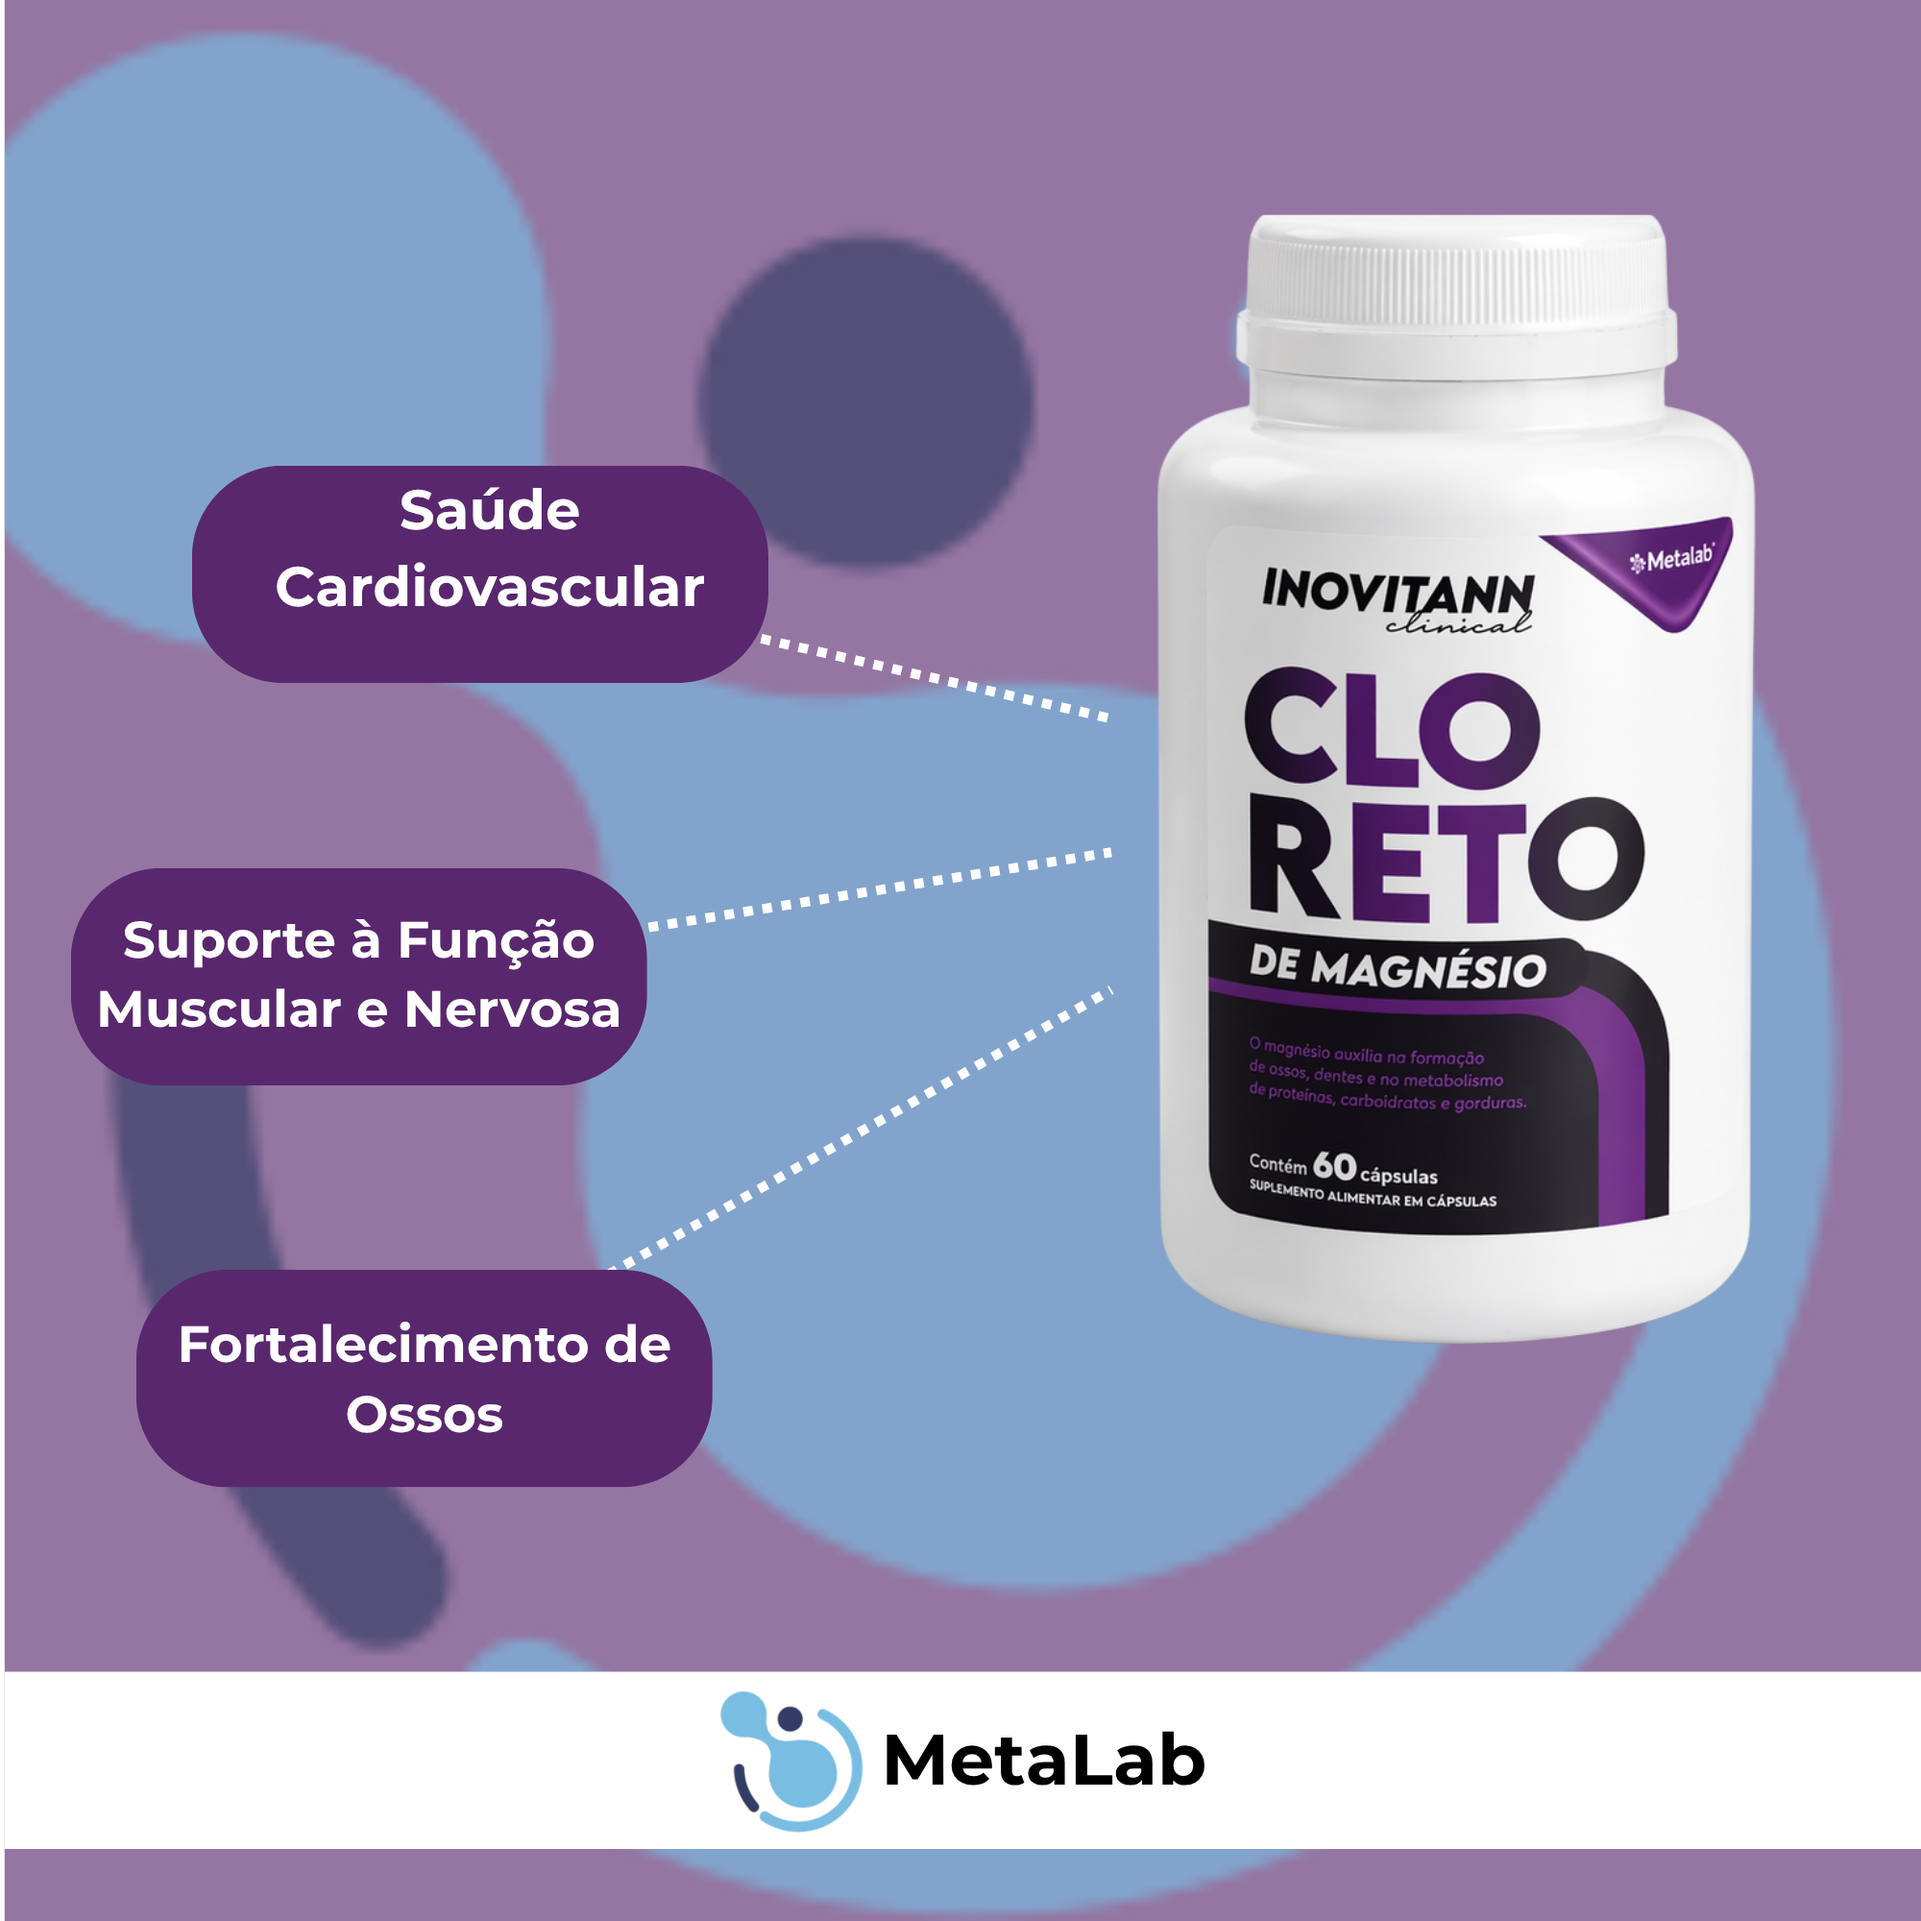
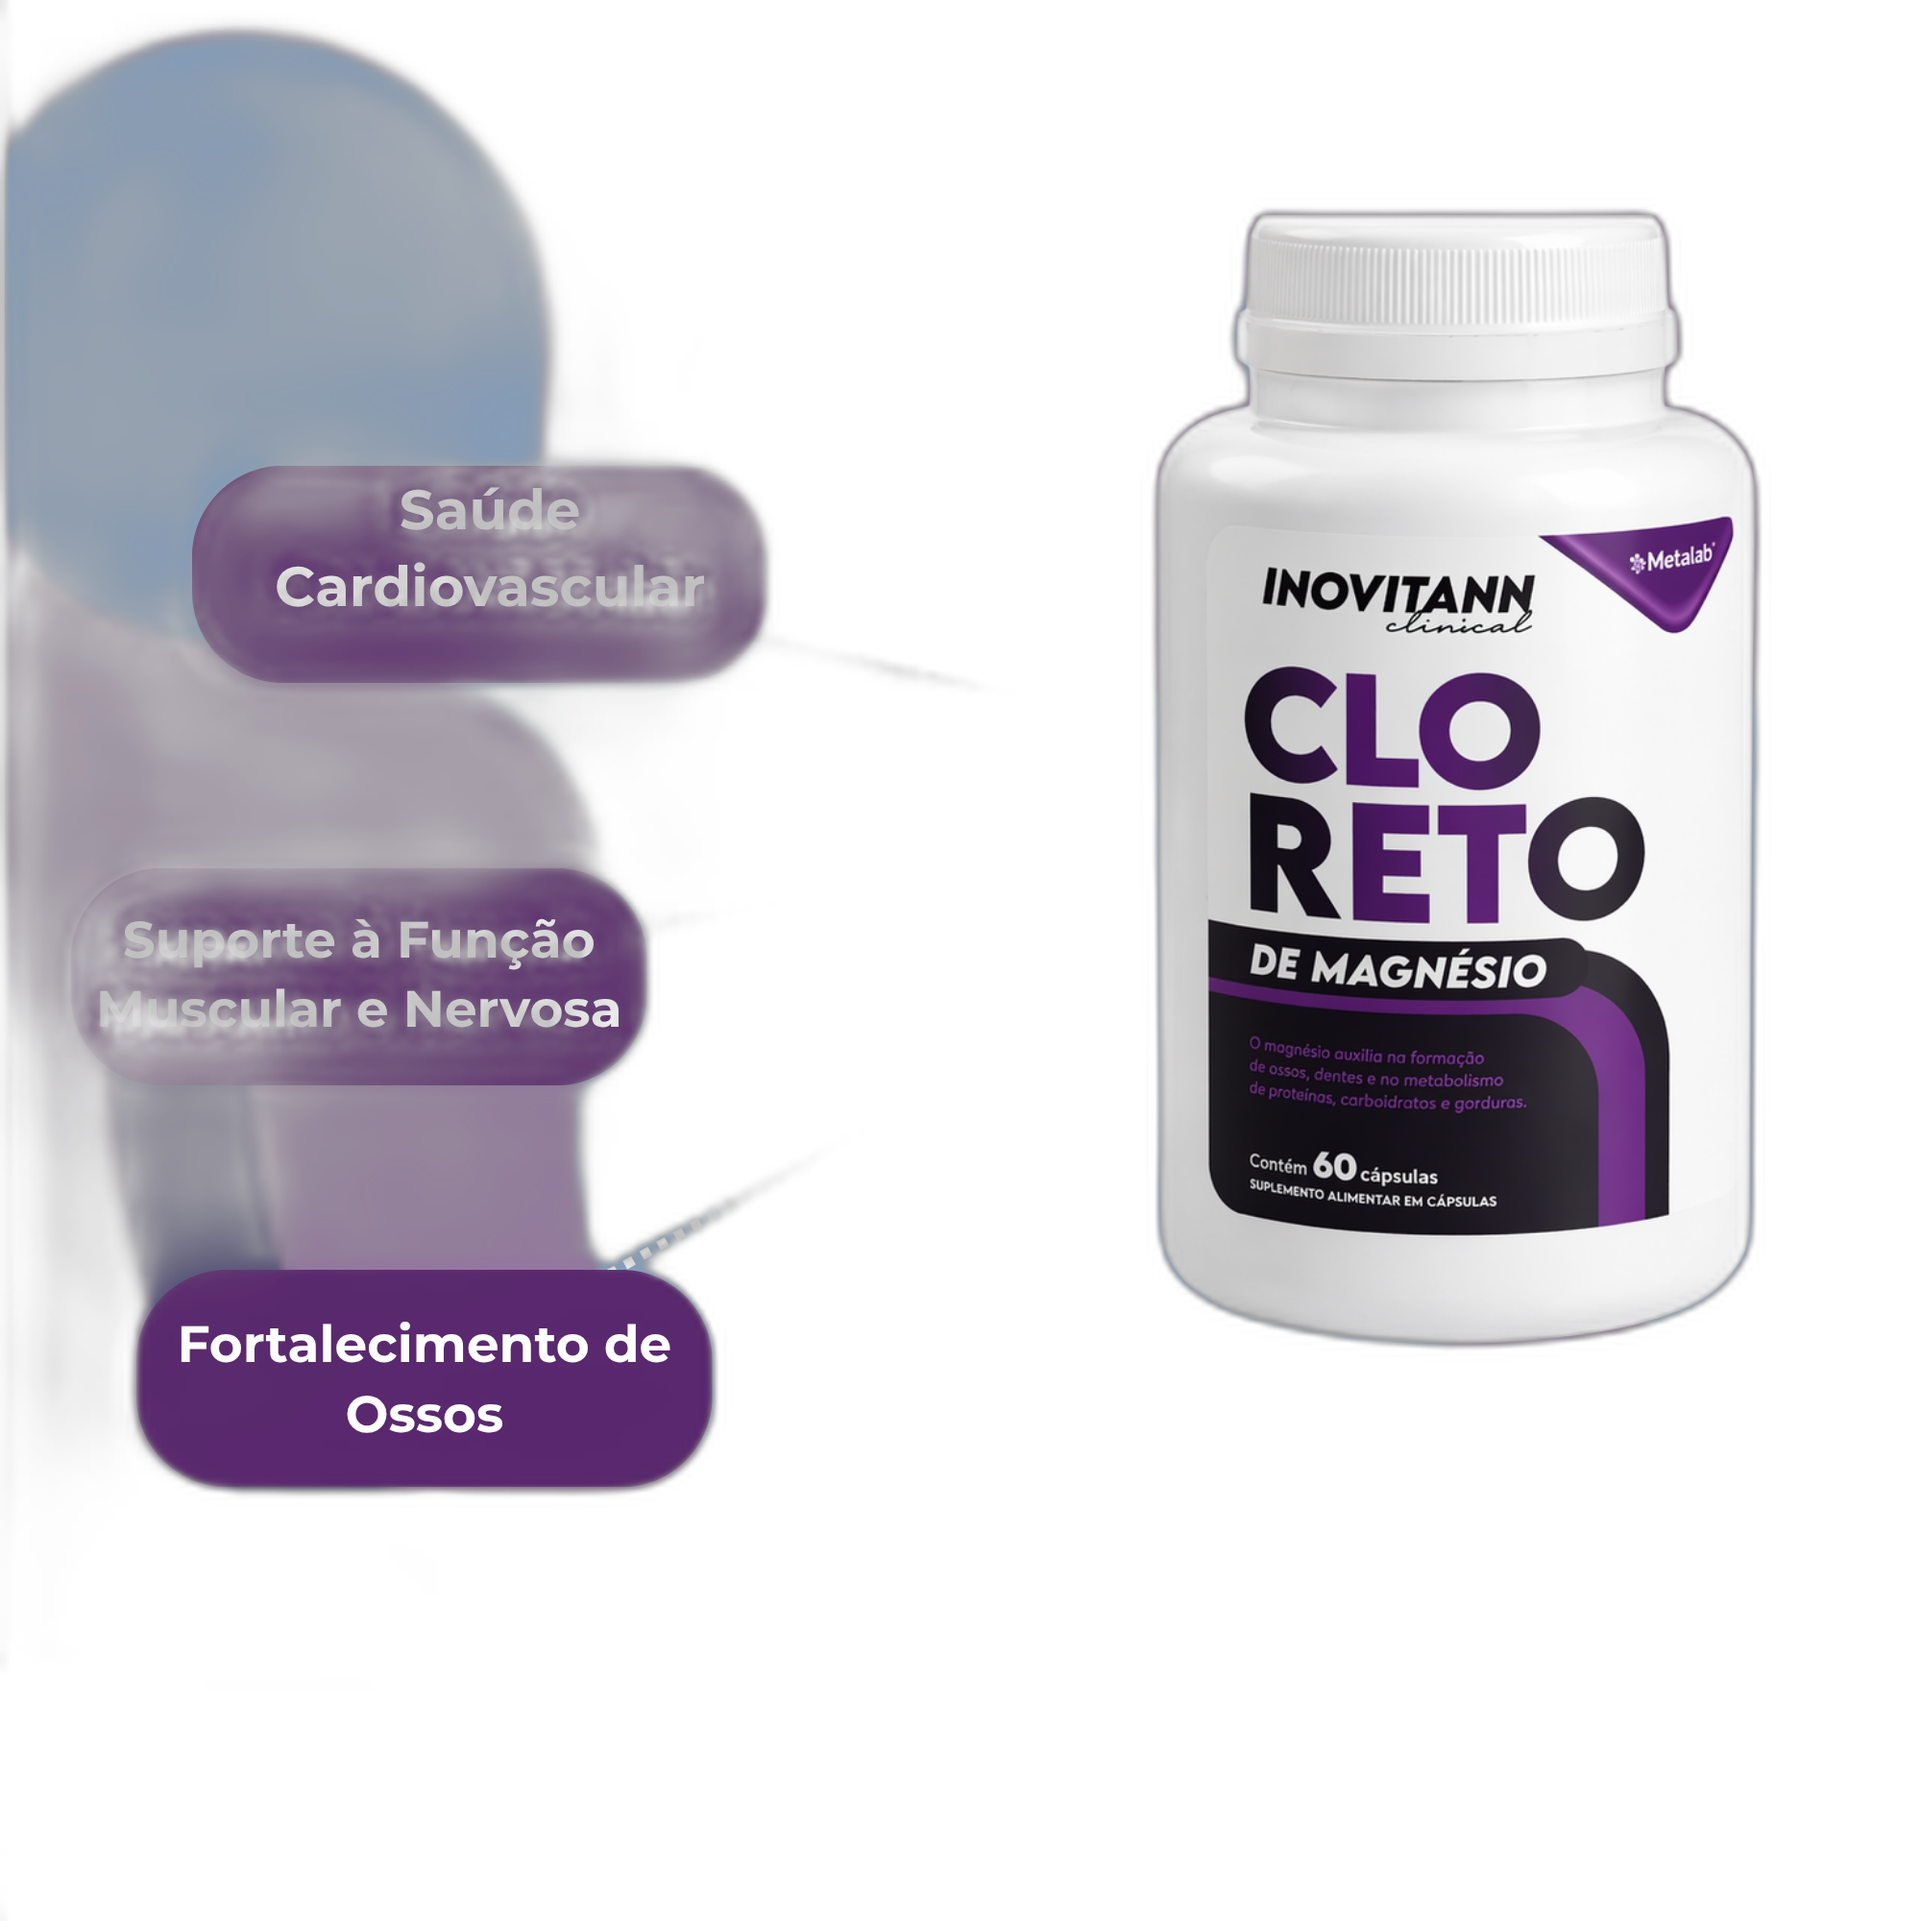
feat: ingredient chips + floating product image for all products
- ComposicaoSection: replaced card grid with simple ingredient name
  chips (no portions, VD or percentages) using the same pill style
  as Inovitann sistemas tags
- ProductDetailHero: removed visible light-gradient container box;
  product now floats on page background with drop-shadow only,
  matching the clean cutout presentation of Inovitann pages
- Fixed 2 remaining bad-cutout images (inovitann-clomag, inovitann-nac)
  via U2Net rembg — all 320 product images now have clean transparent edges

diff --git a/components/ComposicaoSection.tsx b/components/ComposicaoSection.tsx
@@ -1,6 +1,4 @@
-'use client';
-
-import ComposicaoCard from './ComposicaoCard';
+import { FlaskConical } from 'lucide-react';
 import { Ingrediente } from '@/utils/productDetails';
 
 interface ComposicaoSectionProps {
@@ -12,41 +10,53 @@ export default function ComposicaoSection({
   composicao,
   corPrincipal,
 }: ComposicaoSectionProps) {
-  if (!composicao || composicao.length === 0) {
-    return null;
-  }
+  if (!composicao || composicao.length === 0) return null;
 
   return (
-    <section className="py-16 bg-gray-50 border-b border-gray-100">
-      <div className="max-w-6xl mx-auto px-4 sm:px-6 lg:px-8">
-        {/* Título */}
-        <div className="mb-12 text-center">
-          <h2 className="text-3xl sm:text-4xl font-black text-gray-900 mb-3">
-            Composição do Produto
-          </h2>
-          <p className="text-gray-600 max-w-2xl mx-auto">
-            Cada ingrediente foi selecionado para complementar sua rotina alimentar
-          </p>
-          <div
-            className="flex justify-center gap-2 mt-6"
+    <section id="descricao" className="py-14 bg-white border-b border-gray-100">
+      <div className="max-w-4xl mx-auto px-4 sm:px-6 lg:px-8">
+
+        {/* Cabeçalho */}
+        <div className="flex items-center gap-3 mb-8">
+          <span
+            className="flex items-center justify-center w-10 h-10 rounded-xl shrink-0"
+            style={{ backgroundColor: `${corPrincipal}15` }}
           >
-            <div
-              className="w-1 h-8 rounded-full"
-              style={{ backgroundColor: corPrincipal }}
-            />
+            <FlaskConical size={20} style={{ color: corPrincipal }} />
+          </span>
+          <div>
+            <p
+              className="text-xs font-black uppercase tracking-[0.2em]"
+              style={{ color: corPrincipal }}
+            >
+              Ingredientes
+            </p>
+            <h2 className="text-xl sm:text-2xl font-black text-gray-900 leading-tight">
+              Composição do produto
+            </h2>
           </div>
         </div>
 
-        {/* Grid de Ingredientes */}
-        <div className="grid grid-cols-1 sm:grid-cols-2 lg:grid-cols-3 xl:grid-cols-4 gap-6">
-          {composicao.map((ingrediente, index) => (
-            <ComposicaoCard
-              key={index}
-              ingrediente={ingrediente}
-              corPrincipal={corPrincipal}
-            />
+        {/* Chips */}
+        <div className="flex flex-wrap gap-2.5">
+          {composicao.map((ing) => (
+            <span
+              key={ing.nome}
+              className="px-4 py-2 rounded-full text-sm font-semibold border"
+              style={{
+                backgroundColor: `${corPrincipal}08`,
+                color: corPrincipal,
+                borderColor: `${corPrincipal}30`,
+              }}
+            >
+              {ing.nome}
+            </span>
           ))}
         </div>
+
+        <p className="text-xs text-gray-400 mt-6">
+          Suplemento alimentar. Não é medicamento. Não possui indicação terapêutica. Leia o rótulo antes de consumir.
+        </p>
       </div>
     </section>
   );

diff --git a/components/ProductDetailHero.tsx b/components/ProductDetailHero.tsx
@@ -83,17 +83,17 @@ export default function ProductDetailHero({
         <div className="grid grid-cols-1 md:grid-cols-2 gap-8 lg:gap-16 items-start">
 
           {/* Imagem */}
-          <div className="relative flex items-center justify-center rounded-2xl overflow-hidden"
-            style={{ background: `linear-gradient(145deg, ${corPrincipal}08, ${corPrincipal}04, #f8f8fb)`, minHeight: 380 }}>
+          <div className="relative flex items-center justify-center" style={{ minHeight: 380 }}>
             {product.imagemUrl ? (
               <Image
                 src={product.imagemUrl}
                 alt={product.nome}
                 width={480}
                 height={480}
-                className="w-full object-contain max-h-[420px] p-8"
+                className="w-full object-contain max-h-[420px] p-6"
                 sizes="(max-width: 768px) 100vw, 50vw"
                 priority
+                style={{ filter: `drop-shadow(0 12px 36px ${corPrincipal}30)` }}
               />
             ) : (
               <div className="flex flex-col items-center gap-4 py-16">
